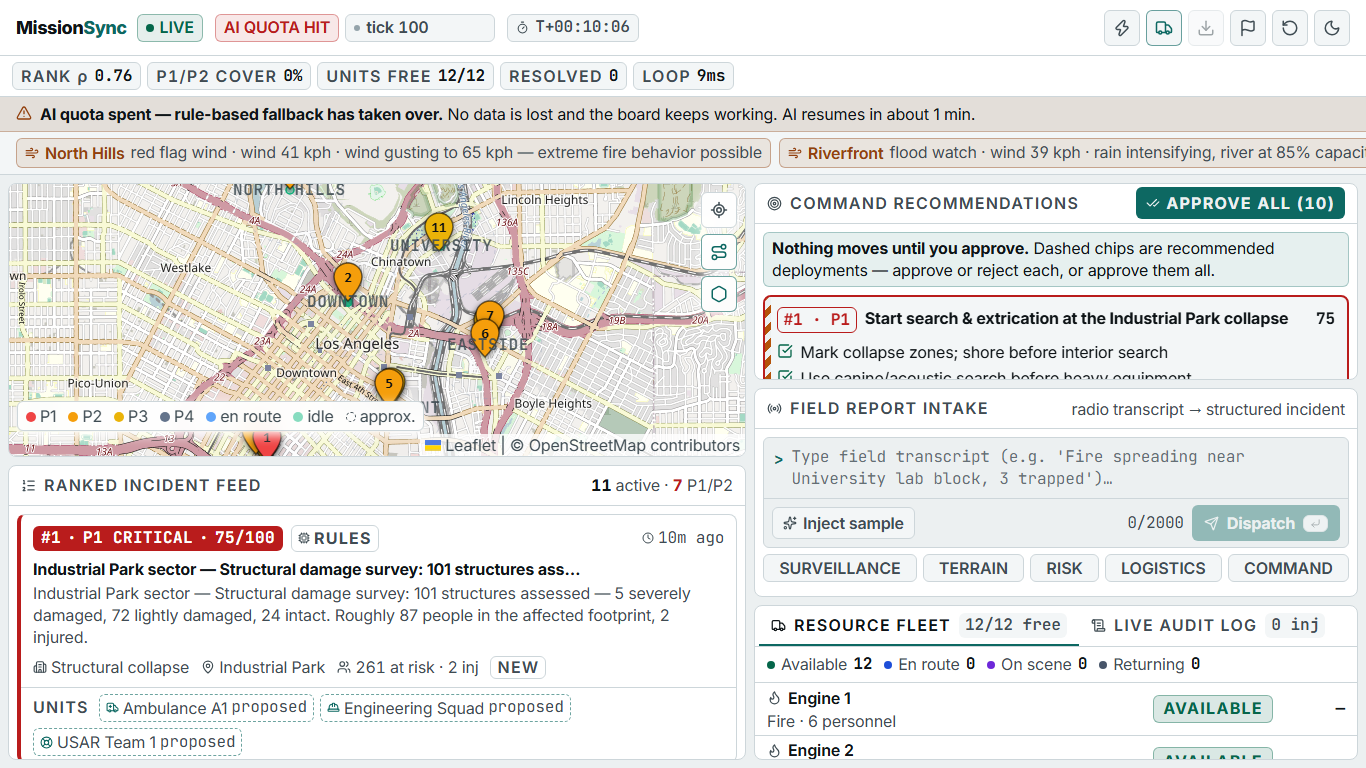
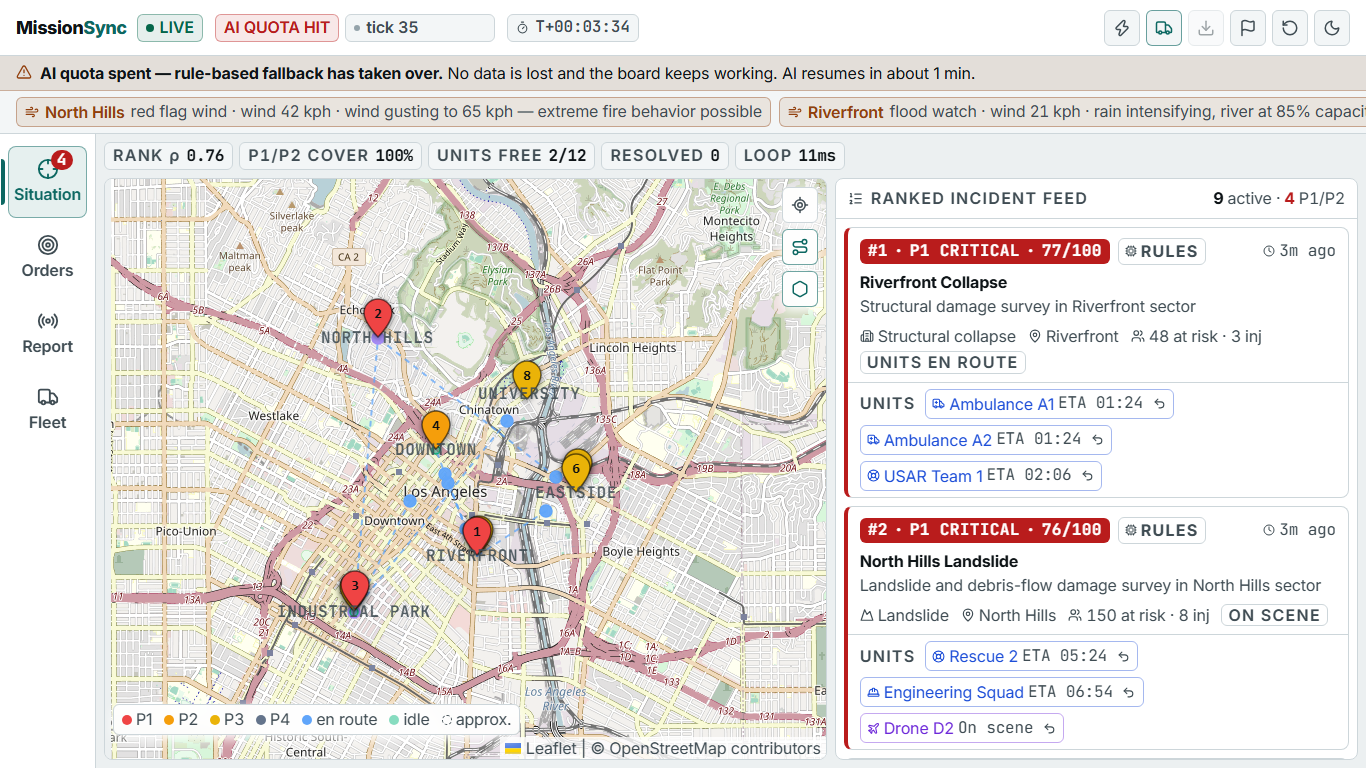
Side navigation rail: one dashboard section per panel
- Desktop: 96px left rail (Situation, Orders, Report, Fleet) with live P1/P2 and pending-approval badges;
  keys 1-4 switch sections (ignored while typing), choice persisted, ?view= deep links
- Situation = map + ranked feed (+ telemetry row); Orders = recommendations + map;
  Report = intake + audit log; Fleet = unit board + map
- Telemetry strip under the header now phones/tablets only; desktop gets it inside Situation
- Tests: SideNav unit/a11y tests and App-level navigation tests (click, hotkeys, typing guard, approve -> fleet)
- README/DESIGN_SYSTEM updated, screenshots for each section

diff --git a/frontend/src/App.tsx b/frontend/src/App.tsx
@@ -1,5 +1,5 @@
 import { useCallback, useEffect, useRef, useState, useSyncExternalStore } from 'react'
-import { Loader2 } from 'lucide-react'
+import { Loader2, ScrollText, Truck } from 'lucide-react'
 import { createSource } from './api/connect'
 import type { DataSource } from './source'
 import { ApiError } from './types'
@@ -7,11 +7,16 @@ import { useMedia } from './lib/useMedia'
 import ActionToast, { type ToastMessage } from './components/ActionToast'
 import AdminKeyDialog from './components/AdminKeyDialog'
 import ErrorBoundary from './components/ErrorBoundary'
+import EventLog from './components/EventLog'
 import FleetAndLog from './components/FleetAndLog'
-import HeaderHud from './components/HeaderHud'
+import HeaderHud, { ClockChip, TelemetryChips } from './components/HeaderHud'
 import IncidentFeed from './components/IncidentFeed'
+import ResourceBoard from './components/ResourceBoard'
+import { FleetSkeleton } from './components/Skeletons'
+import { Panel, PanelHeader } from './components/ui'
 import MapPanel from './components/MapPanel'
 import MobileTabs, { type MobileTab } from './components/MobileTabs'
+import SideNav, { VIEWS, type View } from './components/SideNav'
 import Recommendations from './components/Recommendations'
 import ReportIntake from './components/ReportIntake'
 import SystemBanners from './components/SystemBanners'
@@ -90,6 +95,24 @@ function Board({ source }: { source: DataSource }) {
   const [showUnits, setShowUnits] = useState(true)
   const [busy, setBusy] = useState(false)
   const [tab, setTab] = useState<MobileTab>('feed')
+  const [view, setViewState] = useState<View>(() => {
+    const qs = new URLSearchParams(window.location.search).get('view')       // ?view=orders (links, screenshots)
+    if (VIEWS.some((v) => v.id === qs)) return qs as View
+    try {
+      const saved = localStorage.getItem('ms-view')
+      return VIEWS.some((v) => v.id === saved) ? (saved as View) : 'situation'
+    } catch {
+      return 'situation'
+    }
+  })
+  const setView = useCallback((v: View) => {
+    setViewState(v)
+    try {
+      localStorage.setItem('ms-view', v)
+    } catch {
+      /* the choice just isn't remembered */
+    }
+  }, [])
   const [toast, setToast] = useState<ToastMessage | null>(null)
   const [adminPrompt, setAdminPrompt] = useState<{ label: string; run: () => Promise<void>; rejected: boolean } | null>(null)
   const toastId = useRef(0)
@@ -108,6 +131,20 @@ function Board({ source }: { source: DataSource }) {
     toastId.current += 1
     setToast({ id: toastId.current, tone, text })
   }, [])
+
+  // 1-4 jump between sections (desktop), unless the user is typing.
+  useEffect(() => {
+    if (!desktop) return
+    const onKey = (e: KeyboardEvent) => {
+      if (e.ctrlKey || e.metaKey || e.altKey || adminPrompt) return
+      const t = e.target as HTMLElement | null
+      if (t && (t.isContentEditable || /^(INPUT|TEXTAREA|SELECT)$/.test(t.tagName))) return
+      const v = VIEWS[Number(e.key) - 1]
+      if (v) setView(v.id)
+    }
+    window.addEventListener('keydown', onKey)
+    return () => window.removeEventListener('keydown', onKey)
+  }, [desktop, adminPrompt, setView])
 
   /** Runs a net-control action. Protected actions that the server refuses ask for the admin key once. */
   const act = useCallback(async (label: string, run: () => Promise<void>, opts: { admin?: boolean; ok?: string; retry?: boolean } = {}) => {
@@ -205,6 +242,29 @@ function Board({ source }: { source: DataSource }) {
       />
     </ErrorBoundary>
   )
+  const fleetPanel = (
+    <Panel className="h-full" label="Resource fleet">
+      <PanelHeader
+        title="Resource fleet"
+        icon={<Truck size={15} />}
+        right={<span>{snap.resources.filter((r) => r.status === 'available').length}/{snap.resources.length} free</span>}
+      />
+      <div className="min-h-0 flex-1">
+        <ErrorBoundary label="The fleet board">
+          <ResourceBoard resources={snap.resources} incidents={snap.incidents} loading={loading} onRecall={actions.onRecall} disabled={busy || inputsLocked} />
+        </ErrorBoundary>
+      </div>
+    </Panel>
+  )
+  const logPanel = (
+    <Panel className="h-full" label="Live audit log">
+      <PanelHeader title="Live audit log" icon={<ScrollText size={15} />} right={<span>{m.injections} injected</span>} />
+      <div className="min-h-0 flex-1 overflow-y-auto">
+        <ErrorBoundary label="The audit log">{loading ? <FleetSkeleton /> : <EventLog lines={snap.event_log} />}</ErrorBoundary>
+      </div>
+    </Panel>
+  )
+  const mapFrame = <div className="relative h-full min-h-0 overflow-hidden rounded-lg border border-line">{map}</div>
   const fleet = <FleetAndLog snap={snap} loading={loading} injections={m.injections} onRecall={actions.onRecall} disabled={busy || inputsLocked} />
 
   return (
@@ -214,7 +274,8 @@ function Board({ source }: { source: DataSource }) {
         className="sr-only focus:not-sr-only focus:absolute focus:left-2 focus:top-2 focus:z-[3000] focus:rounded-md focus:bg-accent focus:px-3 focus:py-2 focus:text-sm focus:font-bold focus:text-bg"
         onClick={(e) => {
           e.preventDefault()
-          if (!desktop) setTab('feed')
+          if (desktop) setView('situation')
+          else setTab('feed')
           requestAnimationFrame(() => document.getElementById('incident-feed')?.focus())
         }}
       >
@@ -237,17 +298,40 @@ function Board({ source }: { source: DataSource }) {
       <SystemBanners snap={snap} />
 
       {desktop ? (
-        <main id="main" className="grid min-h-0 flex-1 grid-cols-[55fr_45fr] gap-2 p-2">
-          <div className="flex min-h-0 flex-col gap-2">
-            <div className="relative min-h-0 flex-[48] overflow-hidden rounded-lg border border-line">{map}</div>
-            <div id="incident-feed" tabIndex={-1} className="min-h-0 flex-[52] outline-none">{feed}</div>
-          </div>
-          <div className="flex min-h-0 flex-col gap-2">
-            <div className="min-h-0 flex-[46]">{orders}</div>
-            <div className="shrink-0">{intake}</div>
-            <div className="min-h-0 flex-[36]">{fleet}</div>
-          </div>
-        </main>
+        <div className="flex min-h-0 flex-1">
+          <SideNav view={view} onChange={setView} badge={{ situation: p1p2, orders: snap.proposals.length }} />
+          <main id="main" className="min-h-0 min-w-0 flex-1 p-2">
+            {view === 'situation' && (
+              <div className="flex h-full min-h-0 flex-col gap-2">
+                <div className="no-scrollbar shrink-0 overflow-x-auto min-[1700px]:hidden" aria-label="Drill telemetry">
+                  <div className="flex items-center gap-1.5"><ClockChip snap={snap} className="xl:hidden" /><TelemetryChips m={m} snap={snap} /></div>
+                </div>
+                <div className="grid min-h-0 flex-1 grid-cols-[minmax(0,58fr)_minmax(0,42fr)] gap-2">
+                  {mapFrame}
+                  <div id="incident-feed" tabIndex={-1} className="min-h-0 outline-none">{feed}</div>
+                </div>
+              </div>
+            )}
+            {view === 'orders' && (
+              <div className="grid h-full min-h-0 grid-cols-[minmax(0,1fr)_minmax(0,1fr)] gap-2">
+                {orders}
+                {mapFrame}
+              </div>
+            )}
+            {view === 'report' && (
+              <div className="flex h-full min-h-0 flex-col gap-2">
+                <div className="shrink-0">{intake}</div>
+                <div className="min-h-0 flex-1">{logPanel}</div>
+              </div>
+            )}
+            {view === 'fleet' && (
+              <div className="grid h-full min-h-0 grid-cols-[minmax(0,1fr)_minmax(0,1fr)] gap-2">
+                {fleetPanel}
+                {mapFrame}
+              </div>
+            )}
+          </main>
+        </div>
       ) : (
         <>
           <main id="main" className="min-h-0 flex-1 p-2">

diff --git a/frontend/src/components/sidenav.test.tsx b/frontend/src/components/sidenav.test.tsx
@@ -1,0 +1,94 @@
+// @vitest-environment jsdom
+import { afterEach, beforeEach, describe, expect, it, vi } from 'vitest'
+import { render, screen, within } from '@testing-library/react'
+import userEvent from '@testing-library/user-event'
+import axe from 'axe-core'
+import App from '../App'
+import SideNav, { VIEWS } from './SideNav'
+
+describe('SideNav', () => {
+  it('lists every section, marks the current one, and reports clicks', async () => {
+    const onChange = vi.fn()
+    render(<SideNav view="orders" onChange={onChange} badge={{ situation: 3, orders: 9 }} />)
+    const nav = screen.getByRole('navigation', { name: 'Sections' })
+    expect(within(nav).getAllByRole('button')).toHaveLength(VIEWS.length)
+    for (const v of VIEWS) expect(within(nav).getByRole('button', { name: new RegExp(`^${v.label}`) })).toBeTruthy()
+    expect(screen.getByRole('button', { name: /Orders/ }).getAttribute('aria-current')).toBe('page')
+    expect(screen.getByRole('button', { name: /Fleet/ }).getAttribute('aria-current')).toBeNull()
+    await userEvent.click(screen.getByRole('button', { name: /Fleet/ }))
+    expect(onChange).toHaveBeenCalledWith('fleet')
+  })
+
+  it('says what the badges mean, in words', () => {
+    render(<SideNav view="situation" onChange={vi.fn()} badge={{ situation: 4, orders: 9 }} />)
+    expect(screen.getByRole('button', { name: 'Orders, 9 awaiting approval' })).toBeTruthy()
+    expect(screen.getByRole('button', { name: 'Situation, 4 P1/P2' })).toBeTruthy()
+    expect(screen.getByRole('button', { name: 'Fleet' })).toBeTruthy()            // no badge ⇒ plain name
+  })
+
+  it('has no detectable accessibility violations', async () => {
+    const { container } = render(<SideNav view="situation" onChange={vi.fn()} badge={{ orders: 2 }} />)
+    const res = await axe.run(container, { rules: { 'color-contrast': { enabled: false }, region: { enabled: false } } })
+    expect(res.violations.map((v) => v.id)).toEqual([])
+  })
+})
+
+/** The whole board on a desktop-sized viewport, driven by the in-browser demo engine. */
+describe('Board navigation (desktop layout)', () => {
+  beforeEach(() => {
+    window.history.pushState({}, '', '/?engine=local')
+    try {
+      localStorage.clear()
+    } catch {
+      /* ignore */
+    }
+    window.matchMedia = ((query: string) => ({
+      matches: /min-width:\s*1024px/.test(query),
+      media: query, onchange: null,
+      addEventListener: () => {}, removeEventListener: () => {}, addListener: () => {}, removeListener: () => {}, dispatchEvent: () => false,
+    })) as unknown as typeof window.matchMedia
+  })
+  afterEach(() => window.history.pushState({}, '', '/'))
+
+  it('shows one section per panel and switches by click and by the 1-4 keys', async () => {
+    render(<App />)
+    await screen.findByRole('navigation', { name: 'Sections' })
+    // Situation (default): map + ranked feed, but not the intake or fleet panels.
+    expect(await screen.findByRole('region', { name: /Ranked incident feed|incident feed/i })).toBeTruthy()
+    expect(screen.queryByLabelText('Field report')).toBeNull()
+
+    await userEvent.click(screen.getByRole('button', { name: /^Orders/ }))
+    expect(await screen.findByText(/Nothing moves until you approve/)).toBeTruthy()
+    expect(screen.getByRole('button', { name: /^Orders/ }).getAttribute('aria-current')).toBe('page')
+
+    await userEvent.keyboard('3')
+    expect(await screen.findByLabelText('Field report')).toBeTruthy()
+    expect(screen.getByRole('region', { name: 'Live audit log' })).toBeTruthy()
+
+    await userEvent.keyboard('4')
+    expect(await screen.findByRole('region', { name: 'Resource fleet' })).toBeTruthy()
+    expect(screen.queryByLabelText('Field report')).toBeNull()
+
+    await userEvent.keyboard('1')
+    expect(screen.getByRole('button', { name: /^Situation/ }).getAttribute('aria-current')).toBe('page')
+  })
+
+  it('does not hijack number keys while typing a report, and remembers the section', async () => {
+    render(<App />)
+    await userEvent.click(await screen.findByRole('button', { name: /^Report/ }))
+    const box = await screen.findByLabelText('Field report')
+    await userEvent.type(box, 'unit 2 on scene 4')
+    expect((box as HTMLTextAreaElement).value).toBe('unit 2 on scene 4')        // digits typed, view unchanged
+    expect(screen.getByRole('button', { name: /^Report/ }).getAttribute('aria-current')).toBe('page')
+    expect(localStorage.getItem('ms-view')).toBe('report')
+  })
+
+  it('an approval made in Orders shows up as busy units in Fleet', async () => {
+    render(<App />)
+    await userEvent.click(await screen.findByRole('button', { name: /^Orders/ }))
+    await userEvent.click(await screen.findByRole('button', { name: /Approve all/ }))
+    await userEvent.keyboard('4')
+    const fleet = await screen.findByRole('region', { name: 'Resource fleet' })
+    expect(within(fleet).getAllByText(/EN ROUTE|ON SCENE/i).length).toBeGreaterThan(0)
+  })
+})

diff --git a/frontend/src/components/SideNav.tsx b/frontend/src/components/SideNav.tsx
@@ -1,0 +1,47 @@
+import { Crosshair, Radio, Target, Truck, type LucideIcon } from 'lucide-react'
+
+export type View = 'situation' | 'orders' | 'report' | 'fleet'
+
+export const VIEWS: Array<{ id: View; label: string; hint: string; Icon: LucideIcon }> = [
+  { id: 'situation', label: 'Situation', hint: 'Map and ranked incidents', Icon: Crosshair },
+  { id: 'orders', label: 'Orders', hint: 'Approve or reject proposed dispatches', Icon: Target },
+  { id: 'report', label: 'Report', hint: 'Field report intake and the audit log', Icon: Radio },
+  { id: 'fleet', label: 'Fleet', hint: 'Every unit, its status and assignment', Icon: Truck },
+]
+
+/** Desktop navigation rail: one section per panel, the same mental model as the phone's bottom tabs. */
+export default function SideNav({ view, onChange, badge }: { view: View; onChange: (v: View) => void; badge: Partial<Record<View, number>> }) {
+  return (
+    <nav aria-label="Sections" className="flex w-[96px] shrink-0 flex-col gap-1 border-r border-line bg-panel px-2 py-3">
+      {VIEWS.map(({ id, label, hint, Icon }, i) => {
+        const active = view === id
+        const n = badge[id]
+        return (
+          <button
+            key={id}
+            type="button"
+            onClick={() => onChange(id)}
+            aria-current={active ? 'page' : undefined}
+            aria-label={n != null && n > 0 ? `${label}, ${n} ${id === 'orders' ? 'awaiting approval' : 'P1/P2'}` : label}
+            aria-keyshortcuts={String(i + 1)}
+            title={`${hint} (${i + 1})`}
+            className={`relative flex h-[72px] flex-col items-center justify-center gap-1 rounded-lg border text-xs font-semibold transition-colors ${
+              active ? 'border-accent/50 bg-accent/10 text-accent' : 'border-transparent text-ink-2 hover:bg-hi hover:text-ink'
+            }`}
+          >
+            {active && <span className="absolute -left-2 top-3 h-[calc(100%-24px)] w-1 rounded-r bg-accent" aria-hidden />}
+            <span className="relative">
+              <Icon size={22} aria-hidden />
+              {n != null && n > 0 && (
+                <span className="absolute -right-3.5 -top-2 min-w-[22px] rounded-full bg-p1 px-1 text-center font-mono text-base font-bold leading-5 text-white tnum" aria-hidden>
+                  {n}
+                </span>
+              )}
+            </span>
+            {label}
+          </button>
+        )
+      })}
+    </nav>
+  )
+}

diff --git a/frontend/src/components/HeaderHud.tsx b/frontend/src/components/HeaderHud.tsx
@@ -169,7 +169,7 @@ export default function HeaderHud({ snap, theme, onToggleTheme, showUnits, onTog
     </header>
 
       {/* Telemetry + (on phones) the drill actions, for screens too narrow to show them in the HUD */}
-      <div className="no-scrollbar flex shrink-0 items-center gap-1.5 overflow-x-auto border-b border-line bg-panel px-3 py-1.5 min-[1700px]:hidden" aria-label="Drill telemetry and actions">
+      <div className="no-scrollbar flex shrink-0 items-center gap-1.5 overflow-x-auto border-b border-line bg-panel px-3 py-1.5 lg:hidden" aria-label="Drill telemetry and actions">
         {!wide && <div className="flex items-center gap-1.5">{actionButtons}</div>}
         <EngineChips snap={snap} className="flex lg:hidden" />
         <ClockChip snap={snap} className="xl:hidden" />

diff --git a/README.md b/README.md
@@ -18,6 +18,15 @@
 |---|---|
 | ![Desktop, light](./screenshots/desktop-light.png) | ![Mobile](./screenshots/mobile.png) |
 
+**One section per panel.** A left navigation rail (keys `1`–`4`) splits the dashboard so nothing competes for space — *Situation* (map + ranked incidents), *Orders* (approve / reject dispatches beside the map), *Report* (intake + live audit log), *Fleet* (every unit beside the map). Phones get the same sections as a bottom tab bar.
+
+| Orders | Report | Fleet |
+|---|---|---|
+| ![Orders](./screenshots/view-orders.png) | ![Report](./screenshots/view-report.png) | ![Fleet](./screenshots/view-fleet.png) |
+
+---|---|
+| ![Desktop, light](./screenshots/desktop-light.png) | ![Mobile](./screenshots/mobile.png) |
+
 ---
 
 ## What It Does
@@ -41,6 +50,7 @@ The app is honest about which one you're looking at. The header badge says **AI*
 
 ## Features
 
+- **Sectioned navigation** — a side rail (desktop) / bottom tabs (phone) gives each job its own panel, with live badges for P1/P2 incidents and dispatches awaiting approval; `1`–`4` switch sections and the last one is remembered.
 - **Ranked incident feed** — transparent 0–100 urgency (severity / population / spread / time-criticality, weighted composite computed in plain code); click a card for the component breakdown and rationale.
 - **Live incident map** — priority-colored markers sized by urgency (P1/P2 pulse), every responder unit drawn (idle at base, en route, on scene, returning). A dashed ring marks a report that named no place.
 - **Free-text report intake** — type what is happening and where. The place words ("University lab block", "Industrial Park gate 3", "Riverfront levee") put it on the map; the same type within ~1.5 km merges into the existing incident; text that isn't an emergency is rejected instead of dispatching a unit.

diff --git a/docs/DESIGN_SYSTEM.md b/docs/DESIGN_SYSTEM.md
@@ -58,8 +58,10 @@ Framer Motion layout animation re-orders the feed when ranks change; status puls
 
 | Width | Layout |
 |---|---|
-| ≥ 1024 px | two columns (55 / 45): map over ranked feed, then recommendations · report intake · fleet & log |
-| < 1024 px | single panel with a bottom tab bar (Feed · Map · Orders · Report · Fleet) and badges for P1/P2 and pending approvals; the map stays mounted so it never re-initialises |
+| ≥ 1024 px | A 96 px **navigation rail** on the left and one section at a time in the main area: *Situation* = map + ranked feed (with the drill telemetry row above), *Orders* = recommendations + map, *Report* = intake + live audit log, *Fleet* = unit board + map. Keys `1`–`4` switch; the choice is remembered (`?view=orders` deep-links). |
+| < 1024 px | Single panel with a bottom tab bar (Map · Incidents · Orders · Report · Units), badges for P1/P2 and pending approvals; the map stays mounted so it never re-initialises. Drill actions sit in a scrollable strip under the header. |
+
+The rail and the tab bar share one mental model and the same badges (`aria-label`s read "Orders, 9 awaiting approval"); only the active section is rendered, so each panel gets the whole viewport height and there is no page scroll.
 
 ## Accessibility
 
